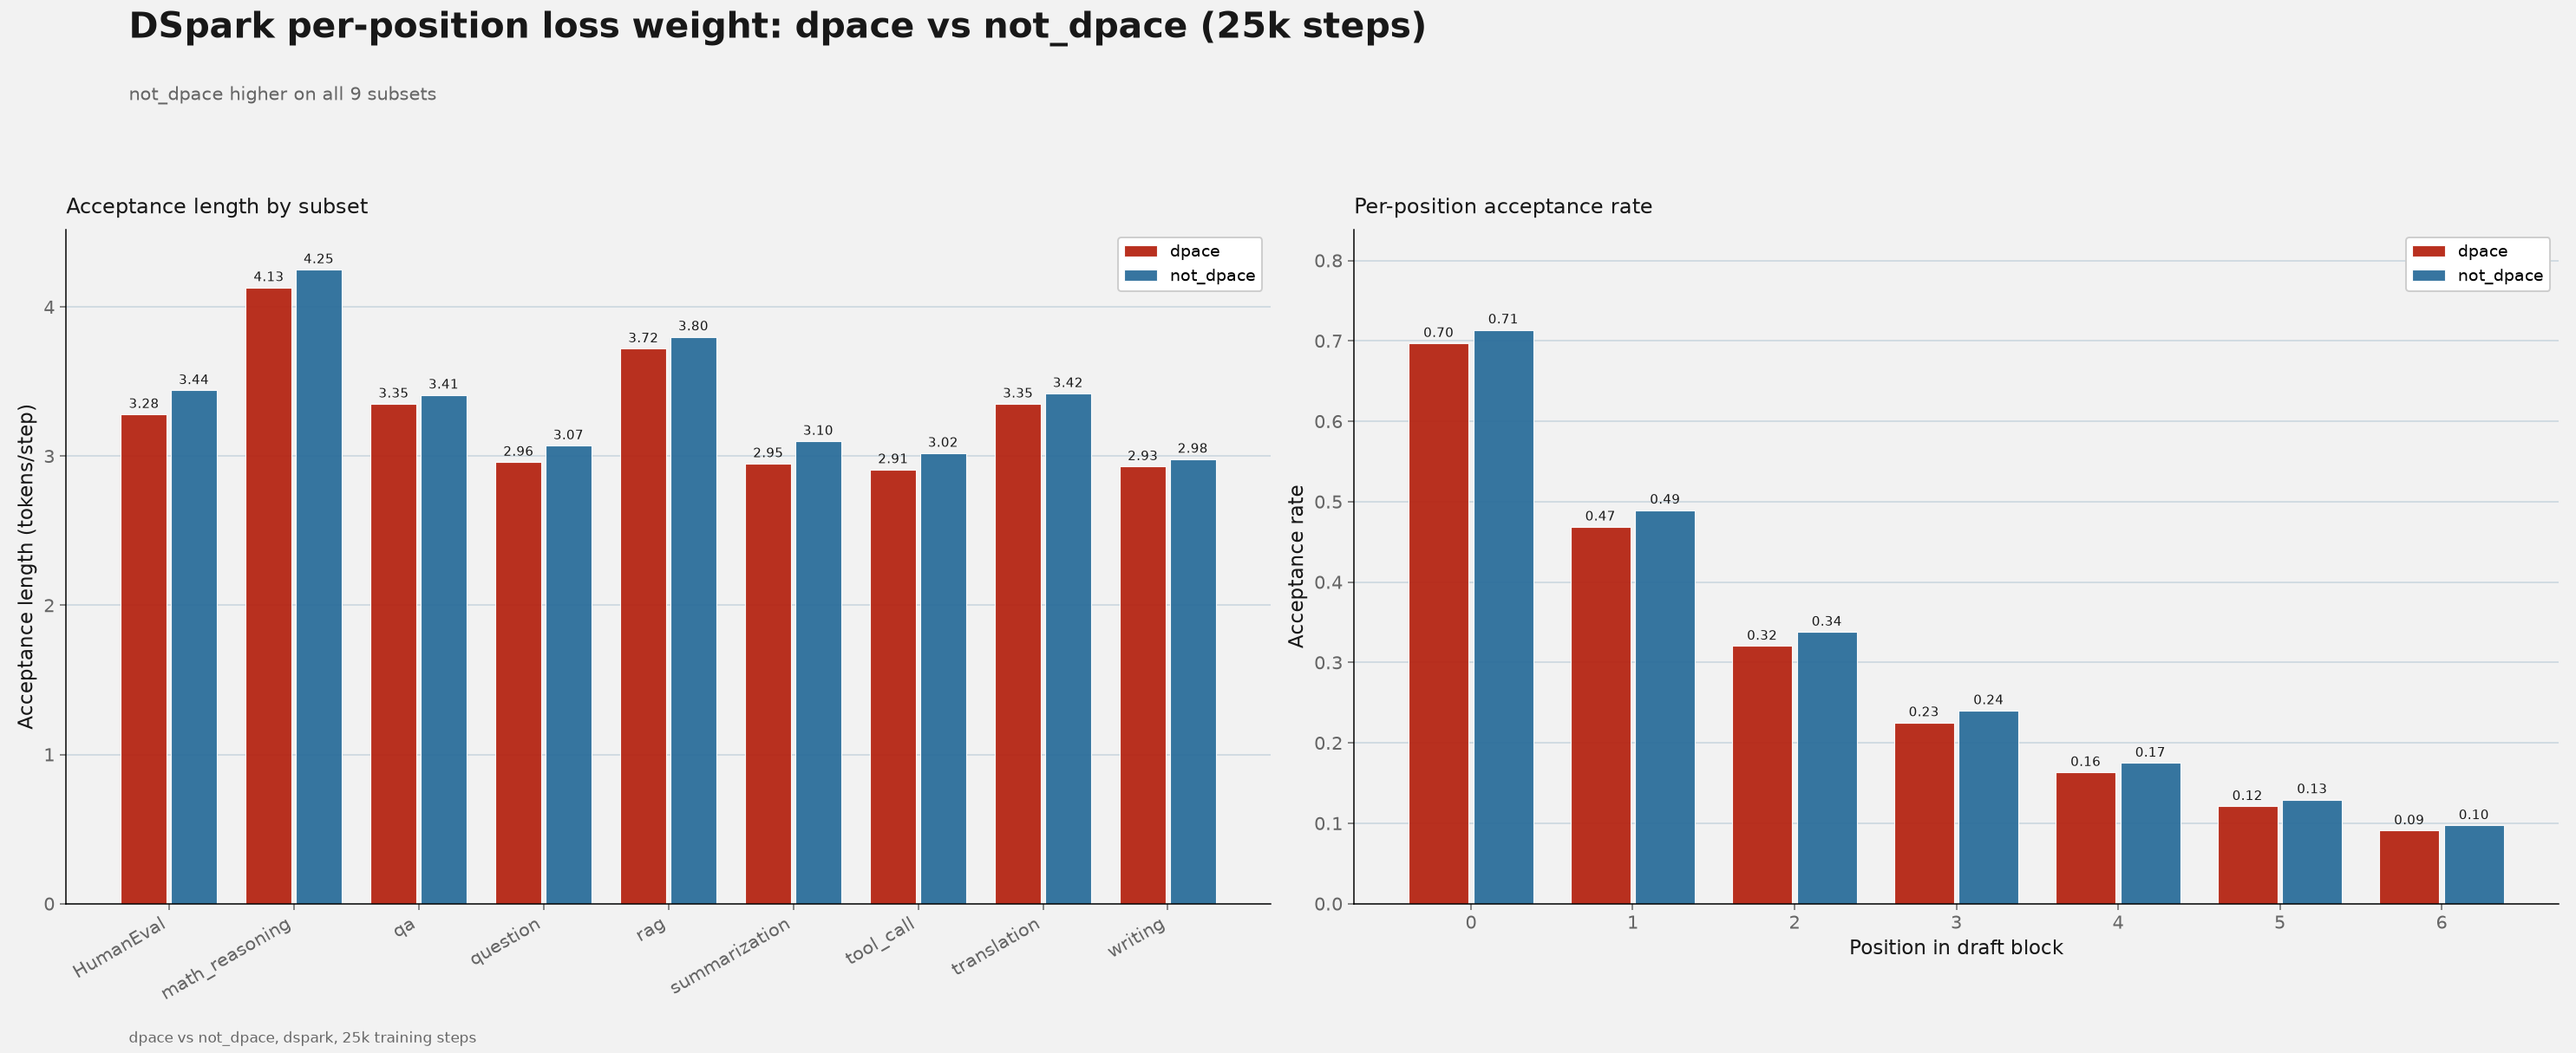
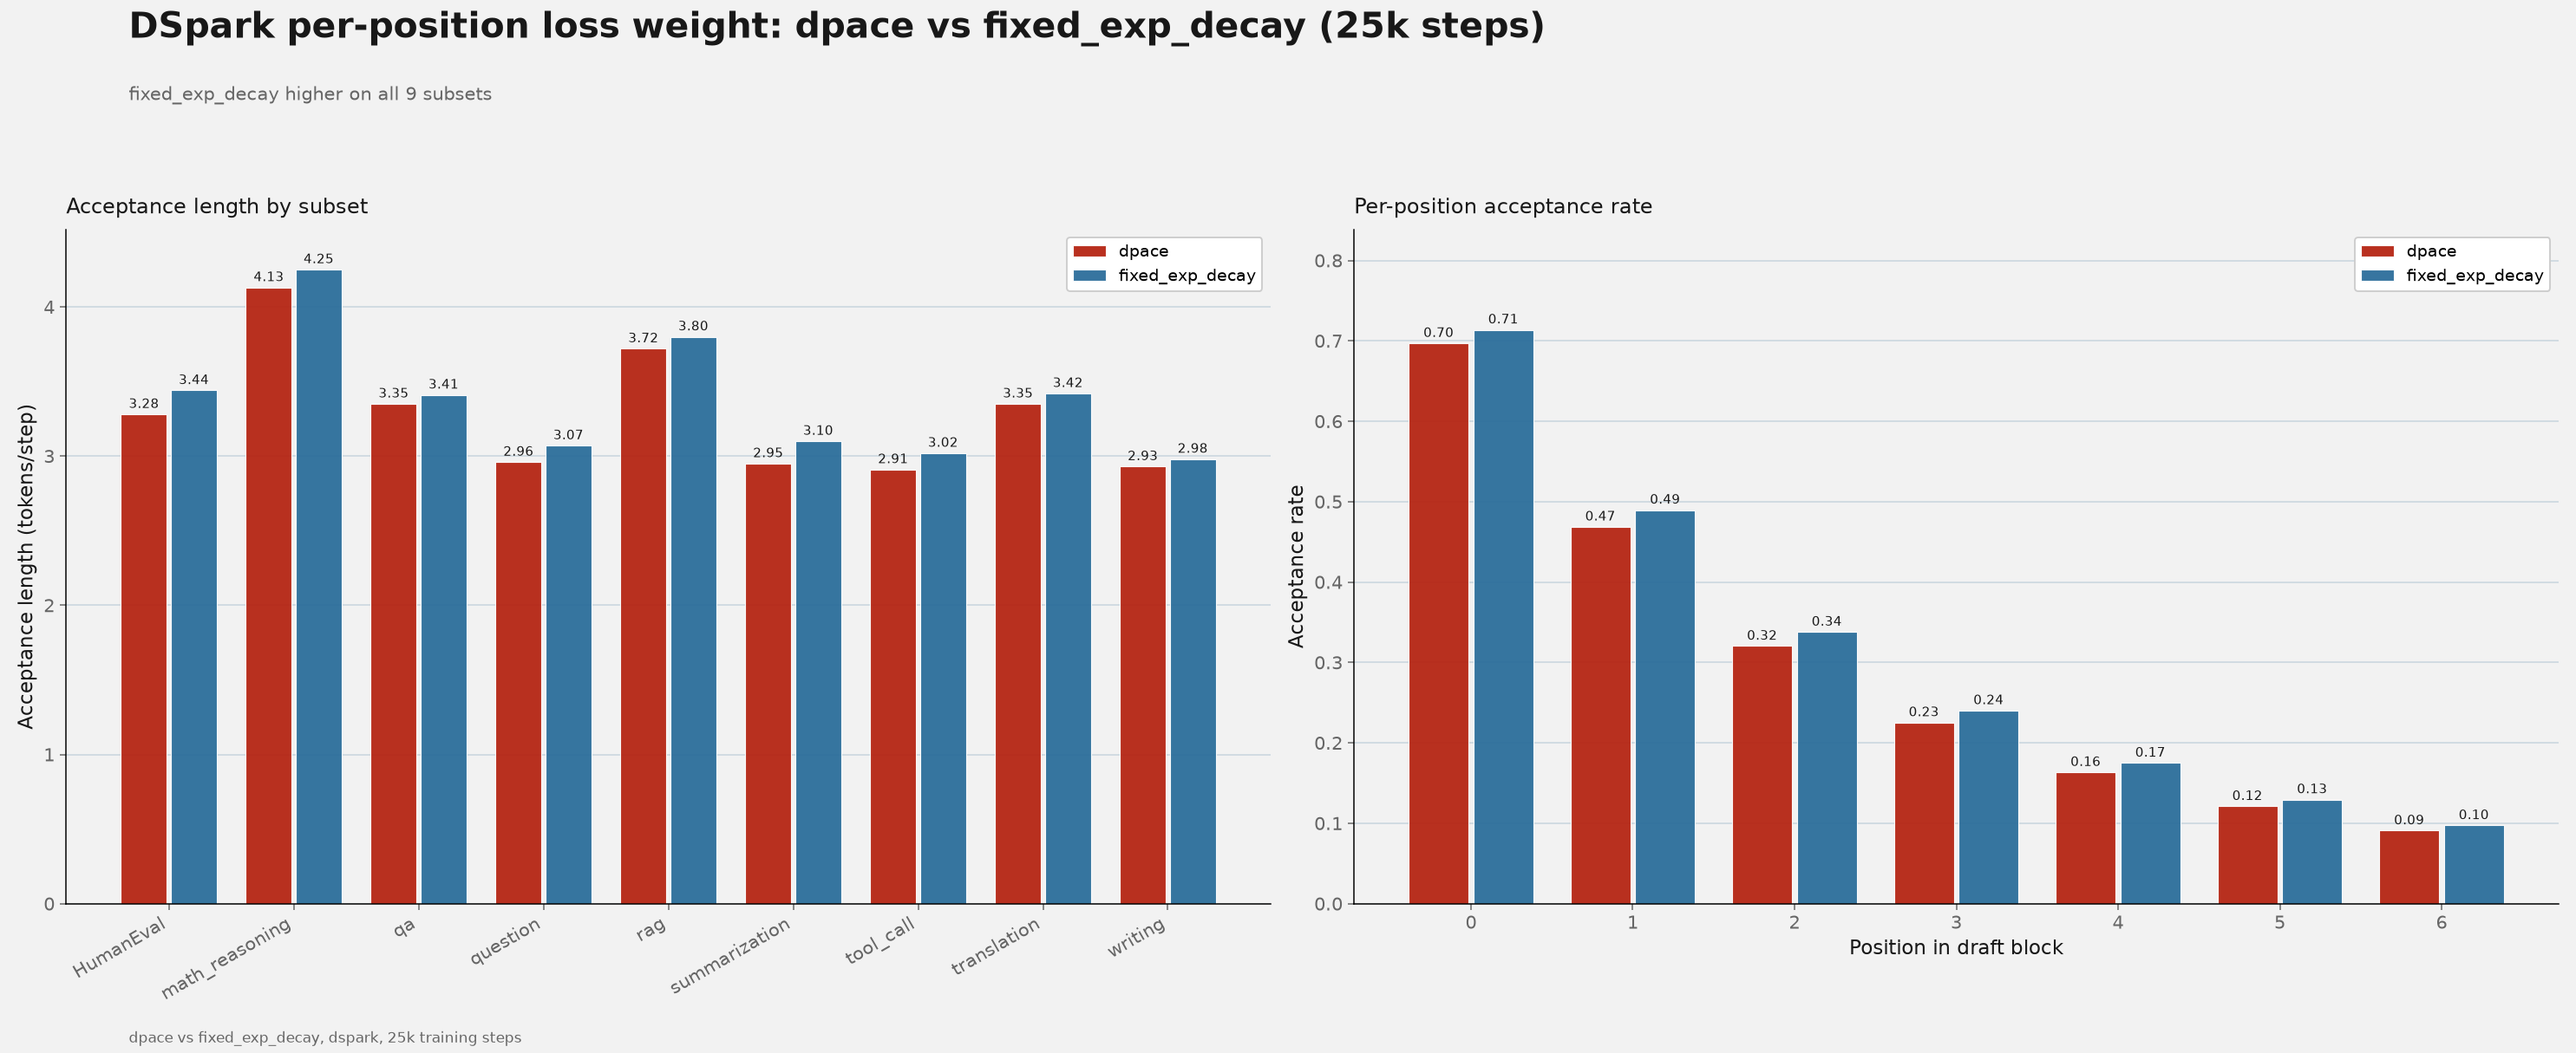
Fix dpace description and rename not-dpace to fixed-exp-decay

diff --git a/docs/research/dflash2-selector-and-loss-normalization-ablation-shubhra.md b/docs/research/dflash2-selector-and-loss-normalization-ablation-shubhra.md
@@ -39,13 +39,13 @@ The strict selector miss policy is implemented in [Speculators PR #1217](https:/
 
 ## Results
 
-### Per-position loss weight: dpace versus not dpace
+### Per-position loss weight: dpace versus fixed-exp-decay
 
-`dpace` is a per-position loss weighting scheme for the draft-model training loss; the alternative leaves per-position weights uniform. This ablation was run for both DFlash2 and DSpark, at 5k and 25k training steps each. Absolute acceptance length is lower at 5k than at 25k across all four configurations below, consistent with less training; compare `dpace` against not-`dpace` within each step count instead of across them.
+`dpace` is a confidence-based per-position loss weight: it converts the per-position cross-entropy loss to a confidence score, smooths it with a constant `dpace_alpha` (default 0.5), and combines positions within a block via a cumulative-product/suffix-sum to produce the final per-position weight. The alternative, `fixed-exp-decay`, weights positions by a fixed exponential decay independent of model confidence; it is DFlash2's and DSpark's default. This ablation was run for both DFlash2 and DSpark, at 5k and 25k training steps each. Absolute acceptance length is lower at 5k than at 25k across all four configurations below, consistent with less training; compare `dpace` against `fixed-exp-decay` within each step count instead of across them.
 
 #### 25k training steps, DFlash2
 
-| Subset | dpace | not dpace | dpace − not dpace |
+| Subset | dpace | fixed-exp-decay | dpace − fixed-exp-decay |
 |---|---:|---:|---:|
 | HumanEval | 3.32 | 3.27 | +0.05 |
 | math_reasoning | 4.05 | 4.00 | +0.05 |
@@ -57,13 +57,13 @@ The strict selector miss policy is implemented in [Speculators PR #1217](https:/
 | translation | 3.36 | 3.32 | +0.04 |
 | writing | 2.84 | 2.88 | −0.05 |
 
-Mixed: `dpace` is higher on six subsets, lower on three. Mean acceptance length is approximately 3.26 for `dpace` and 3.24 for not-`dpace`.
+Mixed: `dpace` is higher on six subsets, lower on three. Mean acceptance length is approximately 3.26 for `dpace` and 3.24 for `fixed-exp-decay`.
 
-![DFlash2 per-position loss weight, dpace vs not dpace, 25k training steps: acceptance length by subset and per-position acceptance rate](../assets/research/dflash2_dpace_25k_dflash2.png)
+![DFlash2 per-position loss weight, dpace vs fixed-exp-decay, 25k training steps: acceptance length by subset and per-position acceptance rate](../assets/research/dflash2_dpace_25k_dflash2.png)
 
 #### 25k training steps, DSpark
 
-| Subset | dpace | not dpace | dpace − not dpace |
+| Subset | dpace | fixed-exp-decay | dpace − fixed-exp-decay |
 |---|---:|---:|---:|
 | HumanEval | 3.28 | 3.44 | −0.17 |
 | math_reasoning | 4.13 | 4.25 | −0.13 |
@@ -75,13 +75,13 @@ Mixed: `dpace` is higher on six subsets, lower on three. Mean acceptance length 
 | translation | 3.35 | 3.42 | −0.06 |
 | writing | 2.93 | 2.98 | −0.05 |
 
-Not-`dpace` is higher on all nine subsets for DSpark at 25k steps. Mean acceptance length is approximately 3.29 for `dpace` and 3.39 for not-`dpace`.
+`fixed-exp-decay` is higher on all nine subsets for DSpark at 25k steps. Mean acceptance length is approximately 3.29 for `dpace` and 3.39 for `fixed-exp-decay`.
 
-![DSpark per-position loss weight, dpace vs not dpace, 25k training steps: acceptance length by subset and per-position acceptance rate](../assets/research/dflash2_dpace_25k_dspark.png)
+![DSpark per-position loss weight, dpace vs fixed-exp-decay, 25k training steps: acceptance length by subset and per-position acceptance rate](../assets/research/dflash2_dpace_25k_dspark.png)
 
 #### 5k training steps, DFlash2
 
-| Subset | dpace | not dpace | dpace − not dpace |
+| Subset | dpace | fixed-exp-decay | dpace − fixed-exp-decay |
 |---|---:|---:|---:|
 | HumanEval | 3.02 | 2.97 | +0.05 |
 | math_reasoning | 3.83 | 3.66 | +0.17 |
@@ -93,13 +93,13 @@ Not-`dpace` is higher on all nine subsets for DSpark at 25k steps. Mean acceptan
 | translation | 3.05 | 2.91 | +0.14 |
 | writing | 2.67 | 2.58 | +0.09 |
 
-`dpace` is higher on eight of nine subsets for DFlash2 at 5k steps. Mean acceptance length is approximately 3.00 for `dpace` and 2.94 for not-`dpace`.
+`dpace` is higher on eight of nine subsets for DFlash2 at 5k steps. Mean acceptance length is approximately 3.00 for `dpace` and 2.94 for `fixed-exp-decay`.
 
-![DFlash2 per-position loss weight, dpace vs not dpace, 5k training steps: acceptance length by subset and per-position acceptance rate](../assets/research/dflash2_dpace_5k_dflash2.png)
+![DFlash2 per-position loss weight, dpace vs fixed-exp-decay, 5k training steps: acceptance length by subset and per-position acceptance rate](../assets/research/dflash2_dpace_5k_dflash2.png)
 
 #### 5k training steps, DSpark
 
-| Subset | dpace | not dpace | dpace − not dpace |
+| Subset | dpace | fixed-exp-decay | dpace − fixed-exp-decay |
 |---|---:|---:|---:|
 | HumanEval | 3.05 | 3.12 | −0.07 |
 | math_reasoning | 3.79 | 3.80 | −0.00 |
@@ -111,11 +111,11 @@ Not-`dpace` is higher on all nine subsets for DSpark at 25k steps. Mean acceptan
 | translation | 2.84 | 2.88 | −0.04 |
 | writing | 2.65 | 2.72 | −0.06 |
 
-Not-`dpace` is higher on seven of nine subsets for DSpark at 5k steps. Mean acceptance length is approximately 2.94 for `dpace` and 3.00 for not-`dpace`.
+`fixed-exp-decay` is higher on seven of nine subsets for DSpark at 5k steps. Mean acceptance length is approximately 2.94 for `dpace` and 3.00 for `fixed-exp-decay`.
 
-![DSpark per-position loss weight, dpace vs not dpace, 5k training steps: acceptance length by subset and per-position acceptance rate](../assets/research/dflash2_dpace_5k_dspark.png)
+![DSpark per-position loss weight, dpace vs fixed-exp-decay, 5k training steps: acceptance length by subset and per-position acceptance rate](../assets/research/dflash2_dpace_5k_dspark.png)
 
-Across both step counts, `dpace` is at best mixed for DFlash2 and consistently worse than not-`dpace` for DSpark; this is why `dpace` was kept as the default for DFlash2 but not adopted for DSpark.
+Across both step counts, `dpace` is at best mixed for DFlash2 and consistently worse than `fixed-exp-decay` for DSpark. `fixed-exp-decay` remains the default per-position loss weight for both architectures; these ablations did not surface a clear case for switching DFlash2 to `dpace`.
 
 ### Strict versus replace selector policy
 
